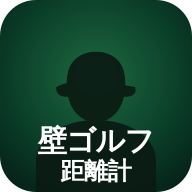
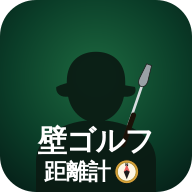
feat: アイコンにゴルフクラブとコンパスを追加、UIに🧭絵文字
- アプリアイコン: シルエットがクラブを肩に担いだ姿勢に変更
  「距離計」横にコンパス (N表記つき) を描画
- 画面UIブランドバッジ: 「壁ゴルフ距離計🧭」に
- バッジ幅増加に合わせてappbar/playページの左パディング調整

https://claude.ai/code/session_01NYx1Nb1rqFaJq58TZqeUTk

Changed region(s): [[0.2188, 0.8125, 0.7188, 0.9688], [0.6562, 0.3125, 0.8125, 0.6875]]

diff --git a/src/app/layout.tsx b/src/app/layout.tsx
@@ -26,7 +26,7 @@ export default function RootLayout({ children }: { children: React.ReactNode }) 
   return (
     <html lang="ja">
       <body>
-        <div className="app-brand" aria-label="壁ゴルフ距離計">壁ゴルフ距離計</div>
+        <div className="app-brand" aria-label="壁ゴルフ距離計">壁ゴルフ距離計🧭</div>
         {children}
         <ServiceWorkerRegister />
       </body>

diff --git a/src/app/course/[id]/play/page.tsx b/src/app/course/[id]/play/page.tsx
@@ -154,7 +154,7 @@ export default function PlayPage() {
           top: 0,
           left: 0,
           right: 0,
-          padding: "calc(env(safe-area-inset-top) + 8px) 12px 8px 130px",
+          padding: "calc(env(safe-area-inset-top) + 8px) 12px 8px 150px",
           background: "linear-gradient(180deg, rgba(0,0,0,0.7) 0%, rgba(0,0,0,0) 100%)",
           zIndex: 10,
           display: "flex",

diff --git a/src/app/globals.css b/src/app/globals.css
@@ -91,7 +91,7 @@ select {
   display: flex;
   align-items: center;
   gap: 12px;
-  padding: 12px 16px 12px 130px; /* leave space for brand badge */
+  padding: 12px 16px 12px 150px; /* leave space for brand badge */
   background: var(--panel);
   border-bottom: 1px solid var(--line);
   position: sticky;
